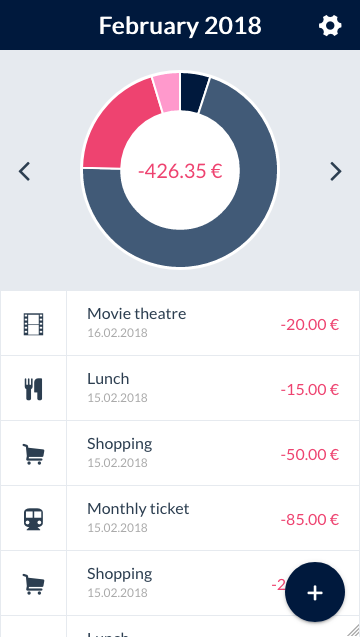
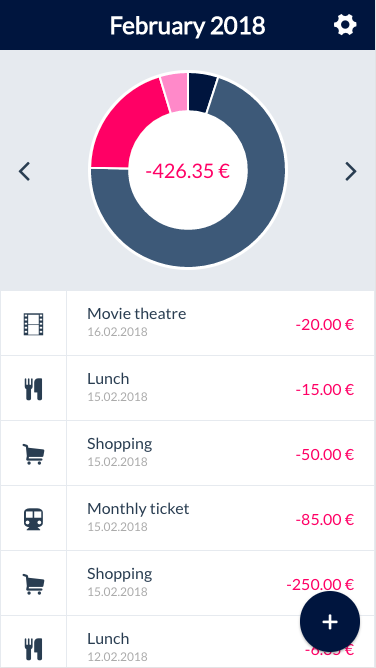
Better screen shots

diff --git a/index.html b/index.html
@@ -32,17 +32,21 @@
   </section>
   <div class="scroll">
     <h2>Features</h2>
-    <div class="smartphone"><div></div></div>
+    <div class="smartphone">
+      <img src="images/screen0.png">
+    </div>
     <div class="scroll-text">
-      <section class="step" data-step="a">
+      <section class="step">
         <h2 id="features">Spendings history</h2>
         <p>Check your expenses per month with a doughnut diagram on top displaying how they are split into categories.</p>
       </section>
-      <section class="step" data-step="b">
+      <section class="step">
         <h2>Add new expenses as easy as 1-2-3</h2>
+        <p>Enter an amount, choose a category and an optional description - and you're done.</p>
       </section>
-      <section class="step" data-step="c">
+      <section class="step">
         <h2>Categorize your spendings</h2>
+        <p>Choose one of the numerous categories to group your expenses.</p>
       </section>
     </div>
   </div>
@@ -51,24 +55,32 @@
     <h2>Coming soon</h2>
     <ul>
       <li>
-        <i class="im im-line-chart-up"></i>
-        <h4>Detailed statistics</h4>
-        <p>Check your spendings in every possible detail.</p>
+        <div>
+          <i class="im im-line-chart-up"></i>
+          <h4>Detailed statistics</h4>
+          <p>Check your spendings in every possible detail.</p>
+        </div>
       </li>
       <li>
-        <i class="im im-bank"></i>
-        <h4>Import from your bank</h4>
-        <p>Add spendings to the app that you made via your bank account.</p>
+        <div>
+          <i class="im im-bank"></i>
+          <h4>Import from your bank</h4>
+          <p>Add spendings to the app that you made via your bank account.</p>
+        </div>
       </li>
       <li>
-        <i class="im im-export"></i>
-        <h4>Export your data</h4>
-        <p>Create a CSV file and use your data wherever you want.</p>
+        <div>
+          <i class="im im-export"></i>
+          <h4>Export your data</h4>
+          <p>Create a CSV file and use your data wherever you want.</p>
+        </div>
       </li>
       <li>
-        <i class="im im-globe"></i>
-        <h4>Localization</h4>
-        <p>Enjoy the app in your language with the corresponding date format.</p>
+        <div>
+          <i class="im im-globe"></i>
+          <h4>Localization</h4>
+          <p>Enjoy the app in your language with the corresponding date format.</p>
+        </div>
       </li>
     </ul>
   </section>
@@ -79,13 +91,11 @@
 
 <script>
 
-const smartphone = document.querySelector('.smartphone');
+const smartphone = document.querySelector('.smartphone img');
 const scroller = scrollama();
 
 const handleStepEnter = function(step) {
-  const currentIndex = (step.direction === 'down') ? step.index - 1 : step.index + 1;
-  if (currentIndex >= 0) smartphone.classList.remove(`screen-${currentIndex}`);
-  smartphone.classList.add(`screen-${step.index}`);
+  smartphone.src = (`images/screen${step.index}.png`);
 };
 
 scroller
@@ -95,9 +105,6 @@ scroller
     graphic: '.smartphone',
   })
   .onStepEnter(handleStepEnter)
-  // .onStepExit(handleStepExit)
-  // .onContainerEnter(handleContainerEnter)
-  // .onContainerExit(handleContainerExit)
   ;
 
 

diff --git a/xptracker-new.css b/xptracker-new.css
@@ -147,12 +147,28 @@ header a:hover::after {
 .scroll > h2 {
   margin-bottom: 0;
   padding: 60px 80px;
+  position: relative;
+  text-align: center;
 }
+.scroll > h2::before,
+.scroll > h2::after {
+  background-color: #aaabbc;
+  content: '';
+  height: 1px;
+  left: 0;
+  position: absolute;
+  top: 83px;
+  width: 30%;
+}
+.scroll > h2::after {
+  left: auto;
+  right: 0;
+}
+
 .scroll-text {
   background-color: #2c3e50;
-  padding: 20% 40px 0 80px;
+  padding: 17% 40px 0 calc(50% + 80px);
   position: relative;
-  width: 50%;
 }
 .scroll-text h2 {
   font-size: 28px;
@@ -162,8 +178,8 @@ header a:hover::after {
   background: url(images/iphone.jpg) no-repeat center;
   background-size: cover;
   display: flex;
-  float: right;
-  height: 100vh;
+  float: left;
+  height: calc(100vh - 75px);
   position: -webkit-sticky;
   position: sticky;
   -webkit-transform: translate3d(0, 0, 0);
@@ -171,13 +187,11 @@ header a:hover::after {
   transform: translate3d(0, 0, 0);
   top: 75px;
   width: 50%;
+  z-index: 10;
 }
-.smartphone div {
-  background: #2a2a2a url(images/screen0.png) no-repeat;
-  background-size: contain;
-  height: 495px;
+.smartphone img {
   margin: auto;
-  width: 280px;
+  height: 65.5%;
 }
 .screen-0 div {
   background-image: url('images/screen0.png');
@@ -193,8 +207,25 @@ header a:hover::after {
   background-color: #eef0f2;
   color: #2c3e50;
   height: auto;
-  min-height: 100vh;
-  padding: 180px 80px 80px;
+  padding: 60px 0 80px;
+  text-align: center;
+}
+.coming-soon h2 {
+  position: relative;
+}
+.coming-soon h2::before,
+.coming-soon h2::after {
+  background-color: #2c3e50;
+  content: '';
+  height: 1px;
+  left: 0;
+  position: absolute;
+  top: 27px;
+  width: 30%;
+}
+.coming-soon h2::after {
+  left: auto;
+  right: 0;
 }
 .coming-soon ul {
   display: flex;
@@ -204,14 +235,17 @@ header a:hover::after {
 .coming-soon li {
   list-style: none;
   margin: 0 20px;
-  text-align: center;
   width: 25%;
 }
+.coming-soon li div {
+  margin: auto;
+  max-width: 200px;
+}
 .coming-soon li:first-child {
-  margin-left: 0;
+  margin-left: 80px;
 }
 .coming-soon li:last-child {
-  margin-right: 0;
+  margin-right: 80px;
 }
 .coming-soon i {
   font-size: 40px;
